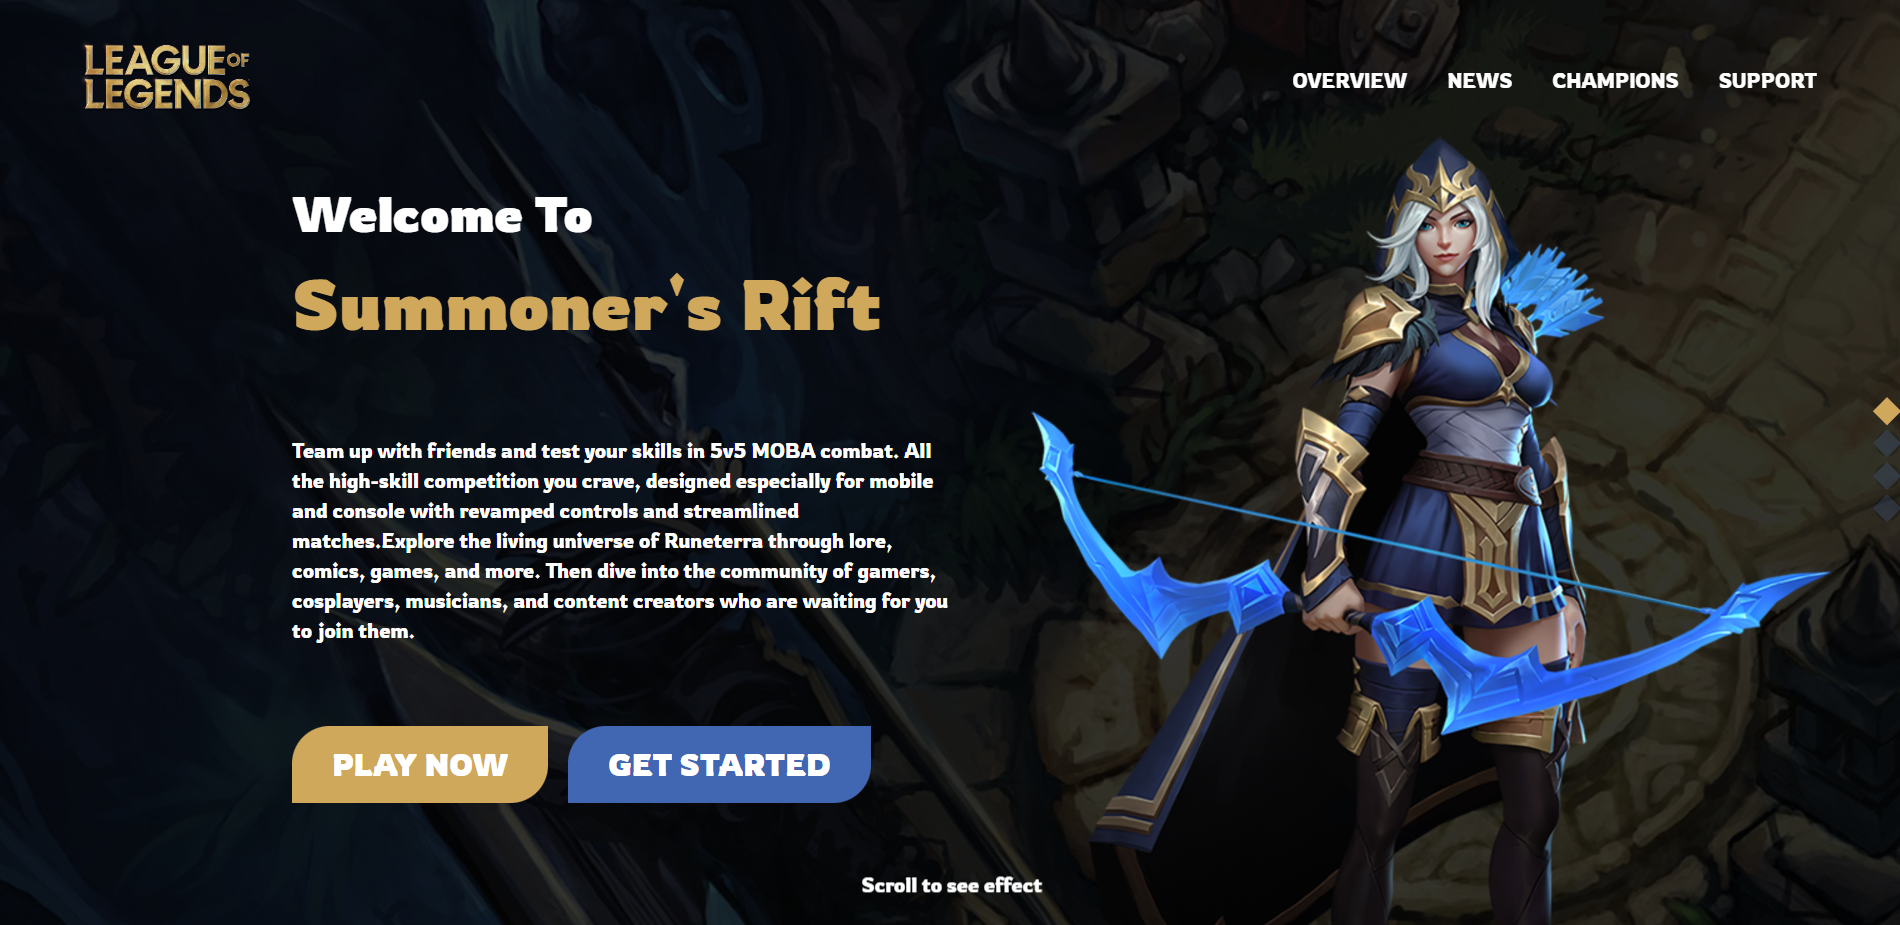
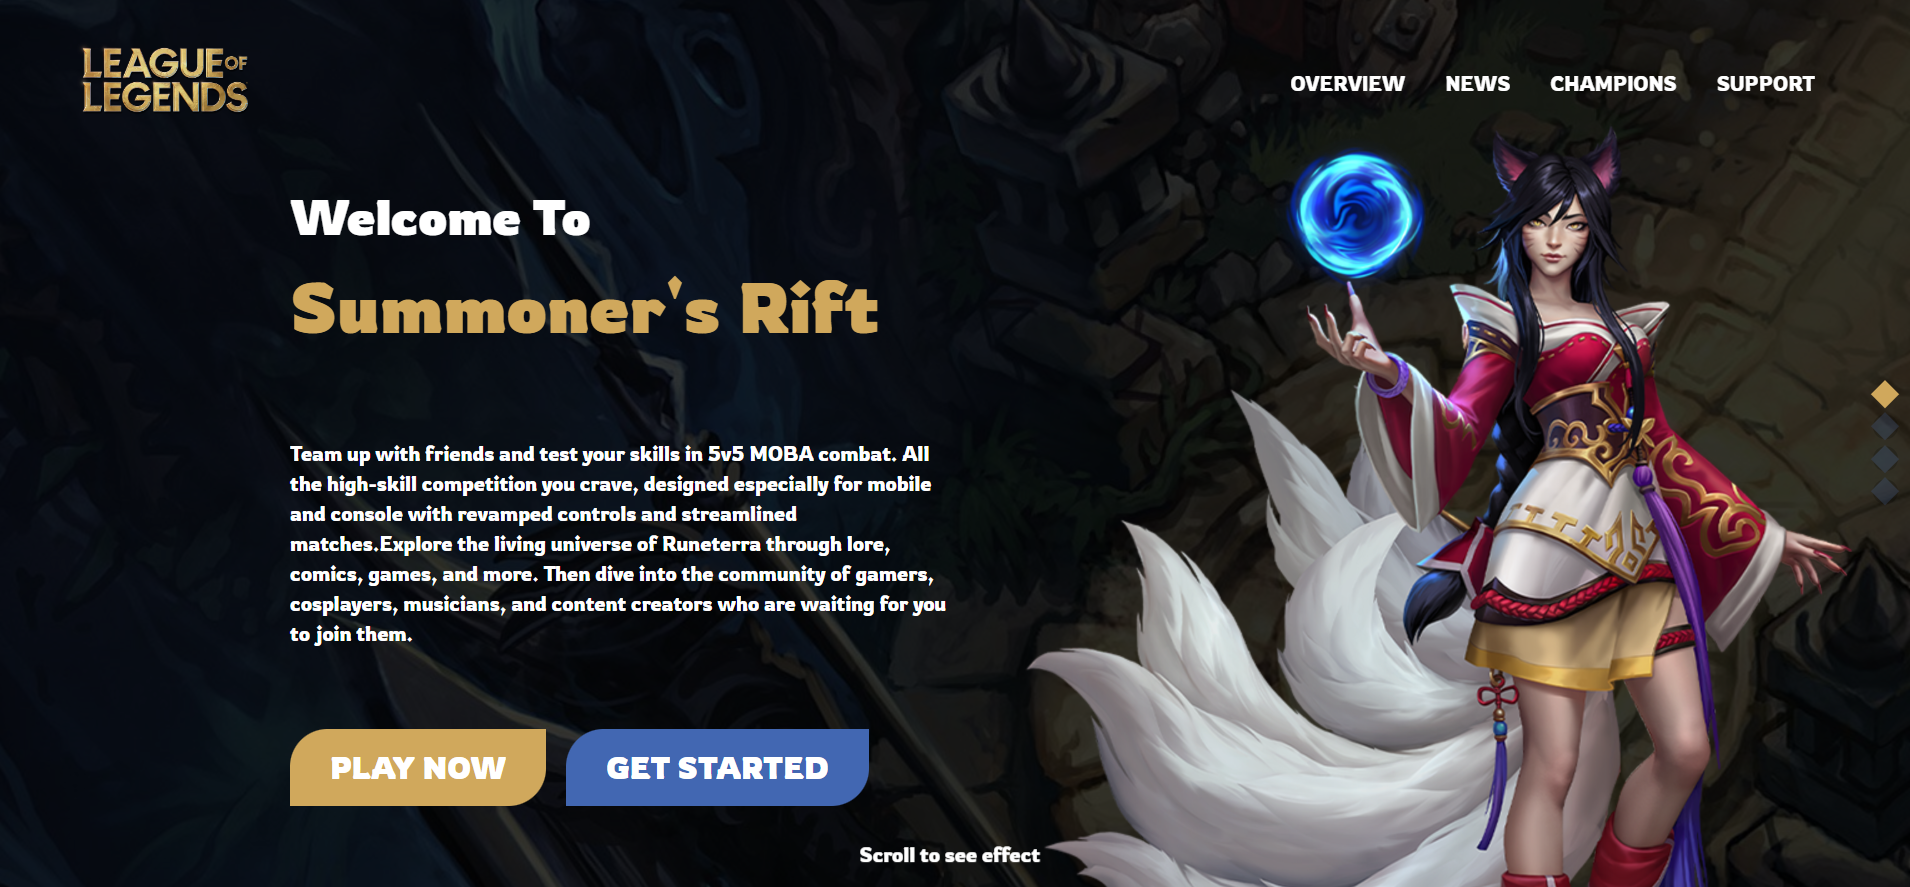
update

diff --git a/pages/api/index.js b/pages/api/index.js
@@ -1,10 +1,9 @@
 import jimmy from "../../assets/jimmy.jpg";
 import shopee from "../../assets/shopee.png";
-import quanlinhanvien from "../../assets/quanlinhanvien.png";
-import sassweb from "../../assets/sassweb.png";
-import samar from "../../assets/webcss.png";
+import christmas from "../../assets/christmas.png";
+import headphone from "../../assets/headphone.png";
+import lol from "../../assets/lol.png";
 import hoobank from "../../assets/hoobank.png";
-import bootstrap from "../../assets/bootstrap.png";
 import html from "../../assets/html5.svg";
 import css from "../../assets/css-3.svg";
 import bs from "../../assets/bootstrap-4.svg";
@@ -19,11 +18,10 @@ import es6 from "../../assets/es6.svg";
 export {
   jimmy,
   shopee,
-  quanlinhanvien,
-  sassweb,
-  samar,
+  christmas,
+  headphone,
+  lol,
   hoobank,
-  bootstrap,
   html,
   css,
   bs,
@@ -39,12 +37,12 @@ export {
 export const project = [
   {
     id: 1,
-    name: "Shopee",
-    desc: "web product shoe shop get api ",
+    name: "Shoe Shop",
+    desc: "Shoes shop with layout clone shopee",
     tech: "HTML, SCSS, JS ,Axios, Postman",
     img: shopee,
-    linkGit: "https://github.com/JimmyNguyen22/shopeeJs",
-    linkDemo: "https://jimmynguyen22.github.io/shop/shopee.html",
+    linkGit: "https://github.com/JimmyNguyen22/shoe_shopJS",
+    linkDemo: "https://jimmynguyen22.github.io/shoe_shopJS/shopee.html",
     linkYouTube: (
       <iframe
         width="100%"
@@ -59,12 +57,12 @@ export const project = [
   },
   {
     id: 2,
-    name: "Staff Management",
-    desc: "Employee Payroll Calculate Program and CRUD",
-    tech: "HTML/CSS/JS ,Bootstrap",
-    img: quanlinhanvien,
-    linkGit: "https://github.com/JimmyNguyen22/QuanLyNhanVien_CRUD",
-    linkDemo: "https://quanlynhanvien-crud.surge.sh/",
+    name: "Christmas Responsive",
+    desc: "Beautiful web layout with modern UX/UI",
+    tech: "HTML/CSS/JS , GSAP",
+    img: christmas,
+    linkGit: "https://github.com/JimmyNguyen22/christmas-responsive",
+    linkDemo: "https://demo-christmas-responsive.netlify.app/",
     linkYouTube: (
       <iframe
         width="560"
@@ -79,12 +77,12 @@ export const project = [
   },
   {
     id: 3,
-    name: "E-learning landing page",
-    desc: "Build layout professional with sass and rule BEM",
-    tech: "SCSS ,JS , OWL carousel, Bootstrap, Swiper",
-    img: sassweb,
-    linkGit: "https://github.com/JimmyNguyen22/SASS_landingPage",
-    linkDemo: "https://jimmynguyen22.github.io/SASS_landingPage/",
+    name: "Headphones",
+    desc: "Beautiful headphone landing page",
+    tech: "HTML, CSS, JS",
+    img: headphone,
+    linkGit: "https://github.com/JimmyNguyen22/headphone-responsive",
+    linkDemo: "https://demo-headphones.netlify.app/",
     linkYouTube: (
       <iframe
         width="560"
@@ -99,12 +97,12 @@ export const project = [
   },
   {
     id: 4,
-    name: "Samar",
-    desc: "Web landing page with modern UI/UX ",
-    tech: "HTML/CSS/JS , OWL carousel, Animate, Wowjs, Swiper",
-    img: samar,
-    linkGit: "https://github.com/JimmyNguyen22/landingPage_Samar",
-    linkDemo: "https://jimmynguyen22.github.io/landingPage_Samar/samar.html",
+    name: "Game lading page",
+    desc: "Web landing page with smooth scroll and animation",
+    tech: "ReactJs, SASS",
+    img: lol,
+    linkGit: "https://github.com/JimmyNguyen22/lol_Reactjs",
+    linkDemo: "https://lol-landing-page.surge.sh/",
     linkYouTube: (
       <iframe
         width="560"
@@ -117,32 +115,12 @@ export const project = [
       ></iframe>
     ),
   },
+
   {
     id: 5,
-    name: "Landing page",
-    desc: "Web landing page form layout design",
-    tech: "HTML/CSS/JS , Bootstrap",
-    img: bootstrap,
-    linkGit: "https://github.com/JimmyNguyen22/Capstone_landingPage",
-    linkDemo:
-      "https://jimmynguyen22.github.io/Capstone_landingPage/capstone.html",
-    linkYouTube: (
-      <iframe
-        width="560"
-        height="315"
-        src="https://www.youtube.com/embed/fFHA8xBNblA"
-        title="YouTube video player"
-        frameborder="0"
-        allow="accelerometer; autoplay; clipboard-write; encrypted-media; gyroscope; picture-in-picture"
-        allowfullscreen
-      ></iframe>
-    ),
-  },
-  {
-    id: 6,
     name: "Hoobank",
-    desc: "Web fully responsive with a modern UI/UX",
-    tech: "Base Reactjs, ViteJs, Tailwindcss",
+    desc: "Web full responsive with modern UI/UX",
+    tech: "Base ReactJs, Tailwindcss",
     img: hoobank,
     linkGit: "https://github.com/JimmyNguyen22/landingPage_reactjs",
     linkDemo: "https://hoobank-ladingpage.surge.sh/",

diff --git a/pages/index.jsx b/pages/index.jsx
@@ -31,16 +31,14 @@ export default function Home() {
 
   const handleModal = (id) => {
     setModal(true);
-
-    setIdModalItem(id);
-    console.log(setIdModalItem(id));
+    const modal = document.querySelector(`#modal_${id}`);
   };
 
   return (
     <Fragment>
       <div className={darkMode ? "dark" : ""}>
         <Head>
-          <title>Portfolio</title>
+          <title>Lý Vĩnh Phú</title>
           <meta name="description" content="Generated by create next app" />
           <link rel="icon" href="/favicon.ico" />
         </Head>
@@ -133,7 +131,7 @@ export default function Home() {
                 RESTfull API, OOP, Git
               </span>{" "}
             </p>
-            <div className="shadow-lg p-10 rounded-xl my-10 dark:bg-gray-300 w-max	">
+            <div className="shadow-lg p-10 rounded-xl my-10 dark:bg-gray-300 sm:w-full lg:w-max">
               <div className="flex gap-10 items-center">
                 <span>
                   <Image src={html} width={50} height={50}></Image>
@@ -188,11 +186,12 @@ export default function Home() {
                         className="img rounded-xl object-cover h-[250px]"
                         layout="reponsive"
                       ></Image>
+                      {/* thay div -> a */}
                       <div
-                        className="absolute left-[-100%] top-0 bg-red-50 opacity-60 h-full w-full rounded-xl"
-                        // onClick={() => {
-                        //   handleModal(item.id);
-                        // }}
+                        className="absolute left-[-100%] top-0 bg-red-50 opacity-60 h-full w-full rounded-xl cursor-pointer"
+                        onClick={() => {
+                          handleModal(item.id);
+                        }}
                       >
                         <AiOutlinePlayCircle className="play absolute top-[50%] left-[50%]  text-5xl	" />
                       </div>
@@ -242,8 +241,18 @@ export default function Home() {
         </main>
       </div>
       <Modal isVisible={modal} onClose={() => setModal(false)}>
-        {project.filter((item) => {
-          if (item.id === idModalItem) return <div>{project.linkYouTube}</div>;
+        {/* {project.filter((item) => {
+          if (item.id === 1) {
+            return <div key={item.id}>{item.linkYouTube}</div>;
+          }
+        })} */}
+
+        {project.map((item) => {
+          return (
+            <div key={item.id} id={`modal_${item.id}`}>
+              {item.linkYouTube}
+            </div>
+          );
         })}
       </Modal>
     </Fragment>

diff --git a/styles/globals.css b/styles/globals.css
@@ -36,3 +36,7 @@ a {
   transform: translate(-50%, -50%);
   color: #000;
 }
+
+.active {
+  display: none;
+}
